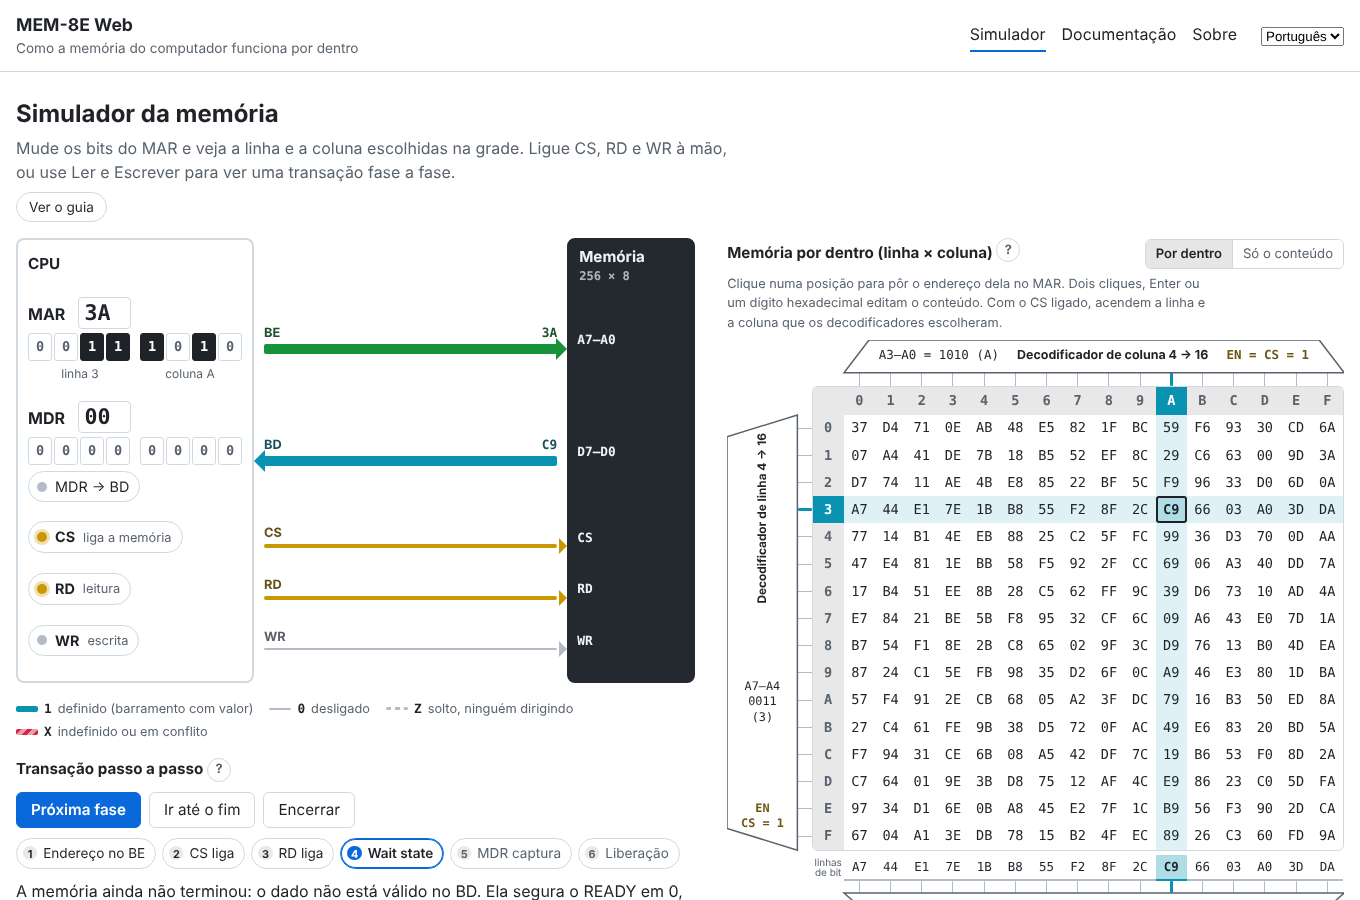
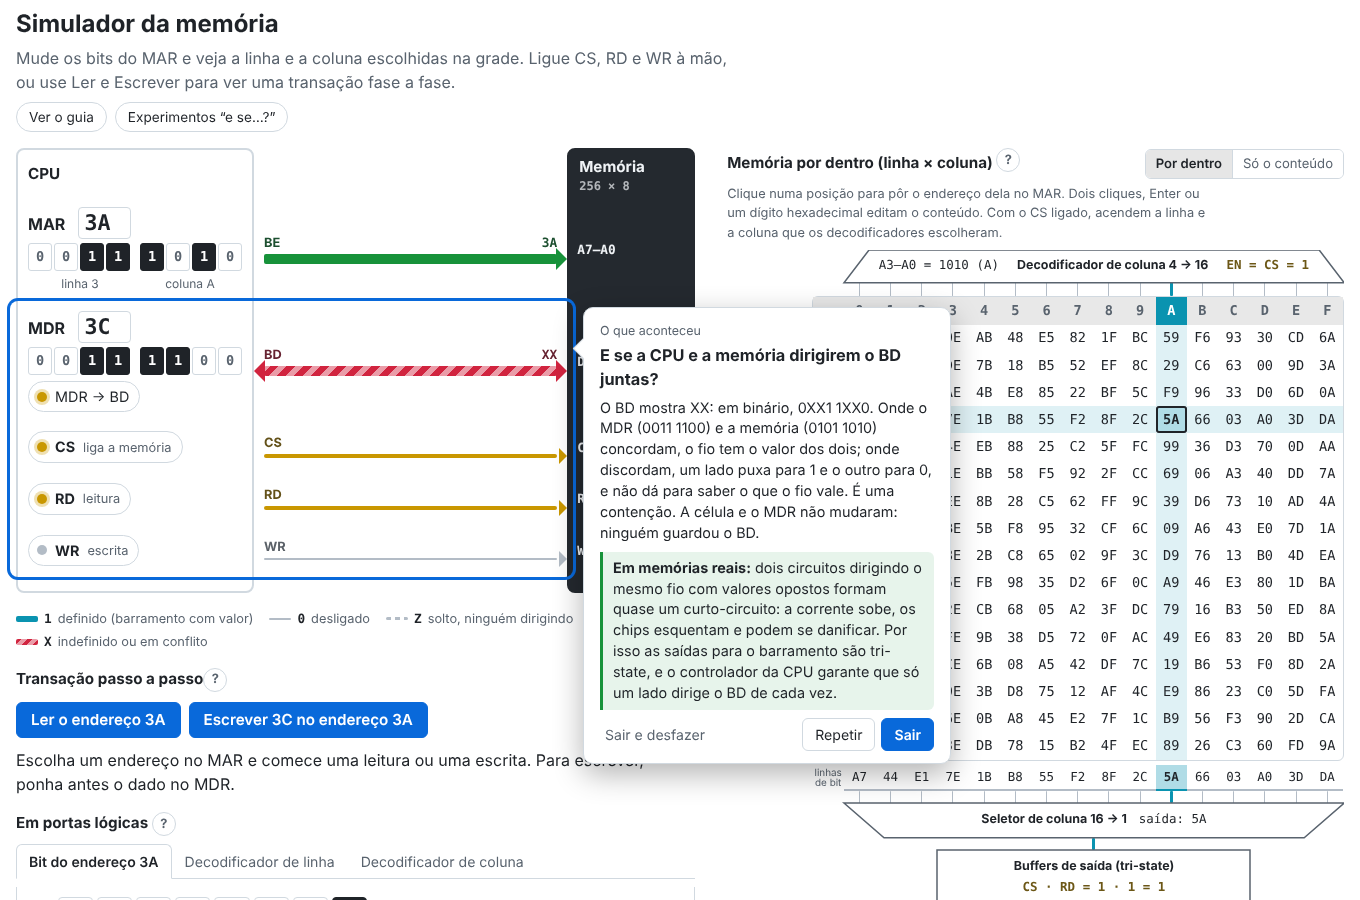
docs: aspas tipográficas, README com captura nova e os experimentos (#36)
Claude-Session: https://claude.ai/code/session_011CPAG9bbfcxnwT7r2NA6is

diff --git a/README.md b/README.md
@@ -11,10 +11,9 @@ de dados e os sinais de controle (CS, RD, WR) e de tempo trabalharem juntos.
 a memória tem a mesma arquitetura de 8 bits e os mesmos nomes (MAR, MDR, BE, BD)
 da CPU-8E, mas aqui ela deixa de ser uma caixa-preta.
 
-**Use no navegador:** <https://tropical-yetti.github.io/mem-8e-web/> (em
-construção)
+**Use no navegador:** <https://tropical-yetti.github.io/mem-8e-web/>
 
-![Leitura do endereço 3A na fase de wait state: a linha 3 e a coluna A escolhidas e o dado C9 no barramento de dados](.github/captura.png)
+![O experimento “E se a CPU e a memória dirigirem o BD juntas?”: o MAR em 3A, a linha 3 e a coluna A escolhidas, e o barramento de dados em conflito (XX), com o balão explicando o resultado e como as memórias reais evitam isso](.github/captura.png)
 
 ## O que dá para fazer
 
@@ -26,6 +25,7 @@ construção)
 - **Comparar o ciclo de memória com o da CPU** no diagrama de tempo, com wait states.
 - **Editar a memória** pela grade, com o mouse ou o teclado.
 - **Guardar e compartilhar a memória** num arquivo de texto, com endereço e bytes em hex, ou colando e copiando o mesmo texto.
+- **Fazer experimentos “e se…?”**: cinco situações que dão errado de propósito (contenção no BD, RD e WR juntos, endereço trocado no meio da leitura, CPU que não espera, CS desligado), cada uma com pergunta, passos e explicação.
 
 Na primeira visita, um guia com balões apresenta cada parte da tela. A
 [documentação](https://tropical-yetti.github.io/mem-8e-web/#/documentacao),

diff --git a/src/docs/pt/memoria.md b/src/docs/pt/memoria.md
@@ -60,11 +60,11 @@ Os dois decodificadores só funcionam com o **CS** ligado (entrada EN). O de lin
 
 ## Linhas de bit e seletor {#linhas-de-bit}
 
-Quando uma linha de palavra liga, **a linha inteira é lida**: os 16 bytes dela descem pelas **linhas de bit**, uma por coluna. Na vista "Por dentro", embaixo da grade, aparecem esses 16 bytes.
+Quando uma linha de palavra liga, **a linha inteira é lida**: os 16 bytes dela descem pelas **linhas de bit**, uma por coluna. Na vista “Por dentro”, embaixo da grade, aparecem esses 16 bytes.
 
 O **seletor de coluna** (um multiplexador 16 → 1) usa a saída do decodificador de coluna para escolher um desses 16 bytes. Só esse byte segue adiante.
 
-Ler a linha inteira parece desperdício, mas é assim que as memórias reais funcionam, e é a base das memórias síncronas e da DDR: depois de "abrir" uma linha, ler outras colunas da mesma linha é rápido.
+Ler a linha inteira parece desperdício, mas é assim que as memórias reais funcionam, e é a base das memórias síncronas e da DDR: depois de “abrir” uma linha, ler outras colunas da mesma linha é rápido.
 
 ## Buffers de saída (tri-state) {#buffers}
 

diff --git a/src/docs/en/memoria.md b/src/docs/en/memoria.md
@@ -60,11 +60,11 @@ Both decoders work only with **CS** on (the EN input). The row decoder turns on 
 
 ## Bit lines and selector {#linhas-de-bit}
 
-When a word line turns on, **the whole row is read**: its 16 bytes go down the **bit lines**, one per column. In the "Inside" view, below the grid, you see these 16 bytes.
+When a word line turns on, **the whole row is read**: its 16 bytes go down the **bit lines**, one per column. In the “Inside” view, below the grid, you see these 16 bytes.
 
 The **column selector** (a 16 → 1 multiplexer) uses the column decoder output to pick one of these 16 bytes. Only that byte goes on.
 
-Reading the whole row looks wasteful, but that is how real memories work, and it is the basis of synchronous memories and DDR: once a row is "open", reading other columns of the same row is fast.
+Reading the whole row looks wasteful, but that is how real memories work, and it is the basis of synchronous memories and DDR: once a row is “open”, reading other columns of the same row is fast.
 
 ## Output buffers (tri-state) {#buffers}
 

diff --git a/CHANGELOG.md b/CHANGELOG.md
@@ -7,6 +7,15 @@ as versões seguem o [versionamento semântico](https://semver.org/lang/pt-BR/).
 
 ## [Não lançado]
 
+### 2026-10-23 — Revisão dos textos e README
+
+- Aspas padronizadas no estilo tipográfico (“ ”) em toda a interface e na
+  documentação, nos dois idiomas. Os termos técnicos (solto/floating,
+  dirigir/drive, indefinido/undefined, wait state) já eram os mesmos em todo
+  lugar (#36).
+- README com captura de tela nova (um experimento “e se…?”), os experimentos
+  na lista do que dá para fazer e sem o aviso “em construção”.
+
 ### 2026-10-23 — Testes
 
 - A meta de cobertura passa a valer também para a store, os experimentos e o

diff --git a/src/docs/en/roteiro.md b/src/docs/en/roteiro.md
@@ -24,7 +24,7 @@ Exercises to do in the simulator, from the simplest to the most involved. The an
 1. With a 50 MHz clock and the medium memory, how many wait states does a read have? How long is the cycle?
 2. Switch the clock to 10 MHz. And now?
 3. With the slow memory and a 100 MHz clock, how many wait states are there? What does that say about using a fast CPU with a slow memory?
-4. Uncheck **"The CPU waits for the memory"**, keep the slow memory and read an address. What does the MDR get?
+4. Uncheck **“The CPU waits for the memory”**, keep the slow memory and read an address. What does the MDR get?
 
 ## 5. In logic gates {#ex-portas}
 

diff --git a/src/docs/pt/roteiro.md b/src/docs/pt/roteiro.md
@@ -24,7 +24,7 @@ Exercícios para fazer no simulador, do mais simples ao mais elaborado. As respo
 1. Com o clock de 50 MHz e a memória média, quantos wait states tem uma leitura? Quanto dura o ciclo?
 2. Troque o clock para 10 MHz. E agora?
 3. Com a memória lenta e o clock de 100 MHz, quantos wait states há? O que isso diz sobre usar uma CPU rápida com uma memória lenta?
-4. Desmarque **"A CPU espera a memória"**, mantenha a memória lenta e leia um endereço. O que o MDR recebe?
+4. Desmarque **“A CPU espera a memória”**, mantenha a memória lenta e leia um endereço. O que o MDR recebe?
 
 ## 5. Em portas lógicas {#ex-portas}
 

diff --git a/src/docs/pt/tempo.md b/src/docs/pt/tempo.md
@@ -50,7 +50,7 @@ Na escrita, o WR liga no começo de T2 e desliga no começo de T3: um pulso de u
 
 ## Sem wait states {#sem-espera}
 
-Desmarque **"A CPU espera a memória"** e escolha uma memória lenta:
+Desmarque **“A CPU espera a memória”** e escolha uma memória lenta:
 
 - na **leitura**, a CPU captura no fim de T2 mesmo assim, com o dado ainda inválido: o **MDR fica com X**;
 - na **escrita**, o pulso de WR é curto demais, e a **célula fica indefinida (X)**.

diff --git a/src/docs/en/tempo.md b/src/docs/en/tempo.md
@@ -50,7 +50,7 @@ In a write, WR turns on at the start of T2 and off at the start of T3: a pulse o
 
 ## Without wait states {#sem-espera}
 
-Uncheck **"The CPU waits for the memory"** and pick a slow memory:
+Uncheck **“The CPU waits for the memory”** and pick a slow memory:
 
 - in a **read**, the CPU latches at the end of T2 anyway, with the data still invalid: the **MDR gets X**;
 - in a **write**, the WR pulse is too short, and the **cell becomes undefined (X)**.
